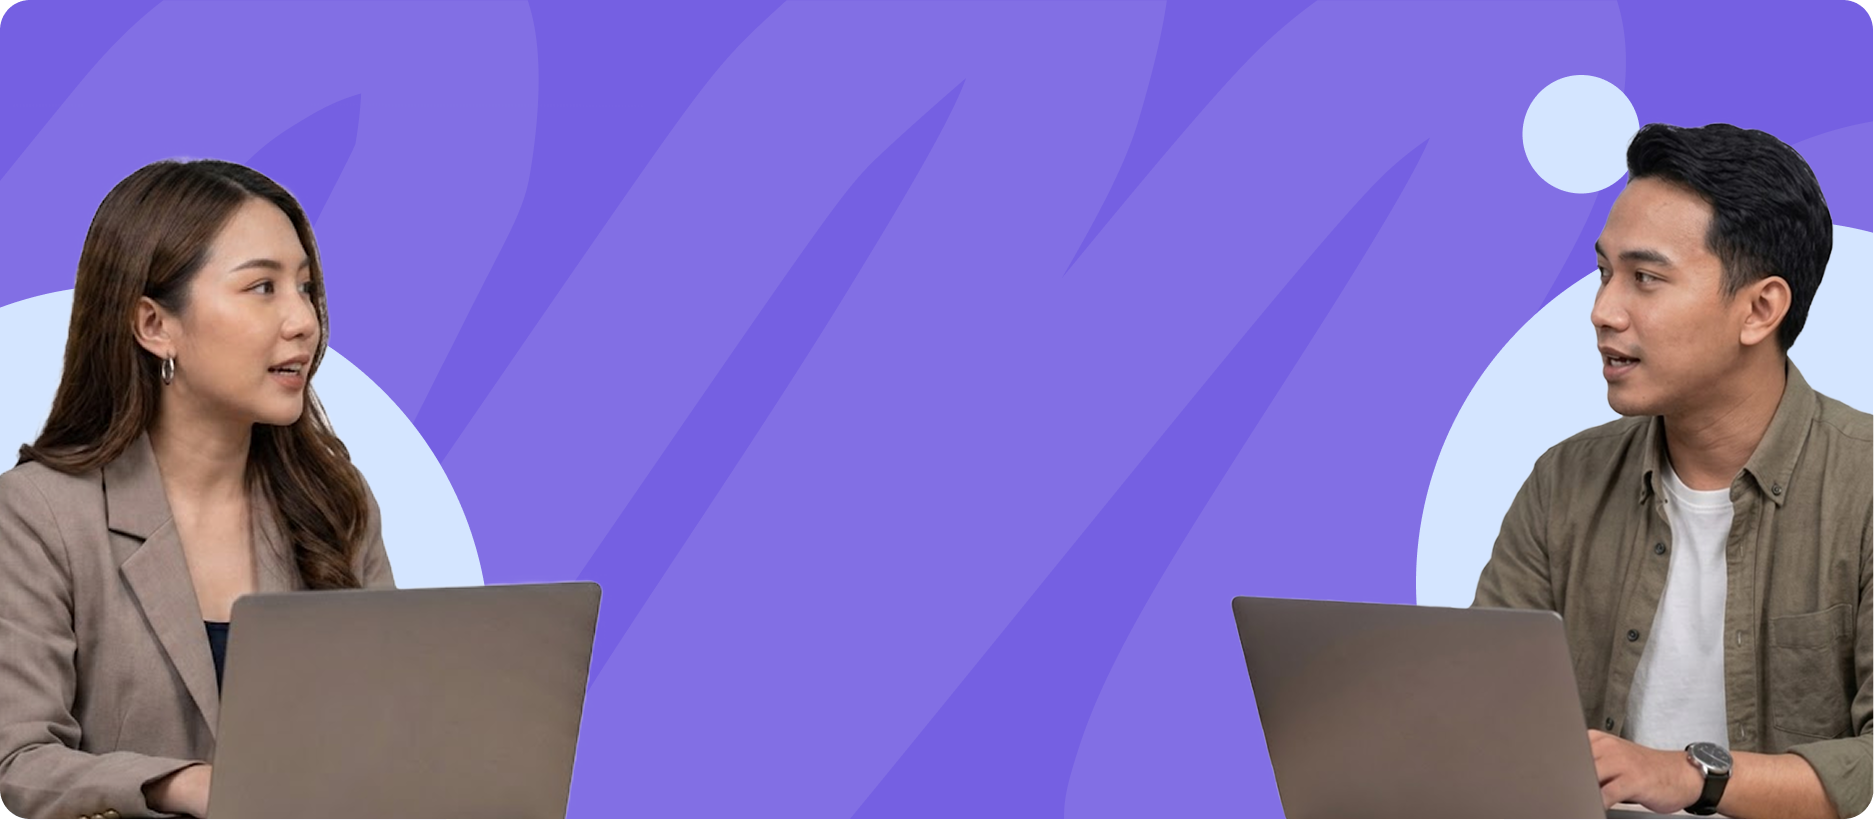
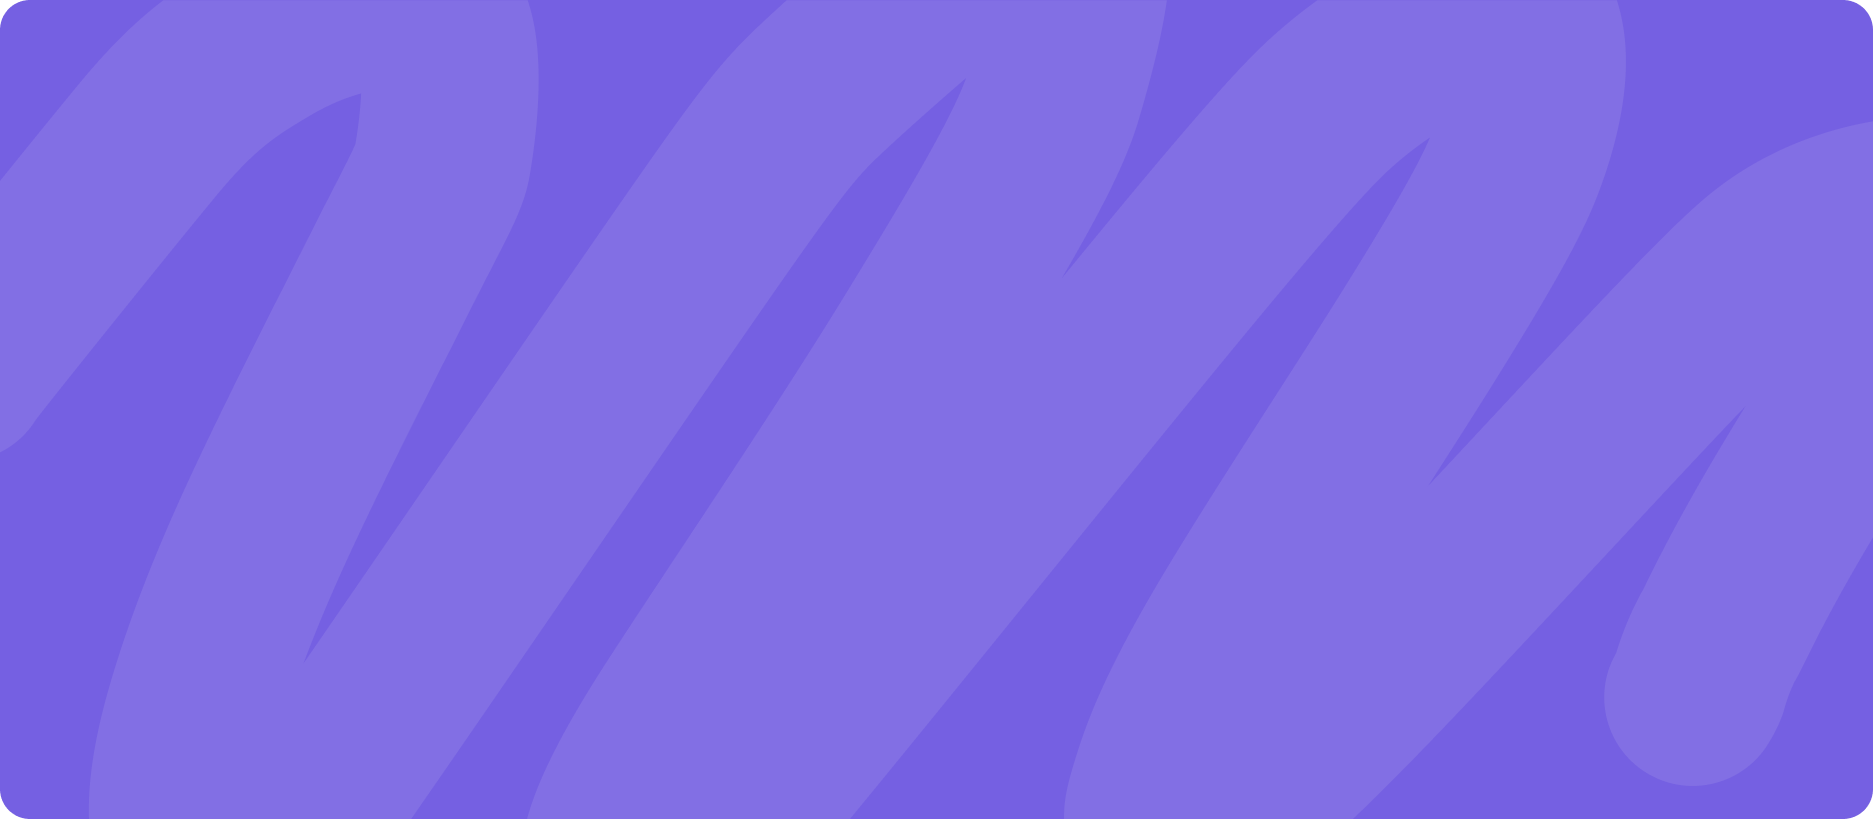
+- landing

diff --git a/css/style.css b/css/style.css
@@ -791,6 +791,7 @@ h1, h2, h3, h4,
     .phone-wrapper {
         max-width: 500px;
         padding-top: 10%;
+        margin-bottom: 20px;
     }
 
     .phone-content {
@@ -1055,6 +1056,22 @@ h1, h2, h3, h4,
     background-size: cover;
     background-position: center;
     background-repeat: no-repeat;
+}
+
+/* Gambar yang menimpa background */
+.cv-overlay-img {
+    position: absolute;
+    inset: 0; /* top:0 right:0 bottom:0 left:0 */
+    width: 100%;
+    height: 100%;
+    object-fit: cover;
+    z-index: 1;
+}
+
+/* Supaya konten tetap di atas gambar */
+.cv-section .row {
+    position: relative;
+    z-index: 2;
 }
 
 .cv-title {

diff --git a/index.html b/index.html
@@ -297,7 +297,7 @@
     </section>
 
     <!-- KARIR -->
-    <section id="karir" class="position-relative mt-5">
+    <section id="karir" class="position-relative mt-4">
 
         <!-- Judul -->
         <h2 class="title text-center">
@@ -560,6 +560,8 @@
     <!-- BANNER CV -->
     <section class="container my-5">
         <div class="cv-section p-4 p-md-5">
+
+            <img src="img/banner-landing.png" alt="Banner" class="cv-overlay-img">
 
             <div class="row h-100 justify-content-center align-items-center">
 